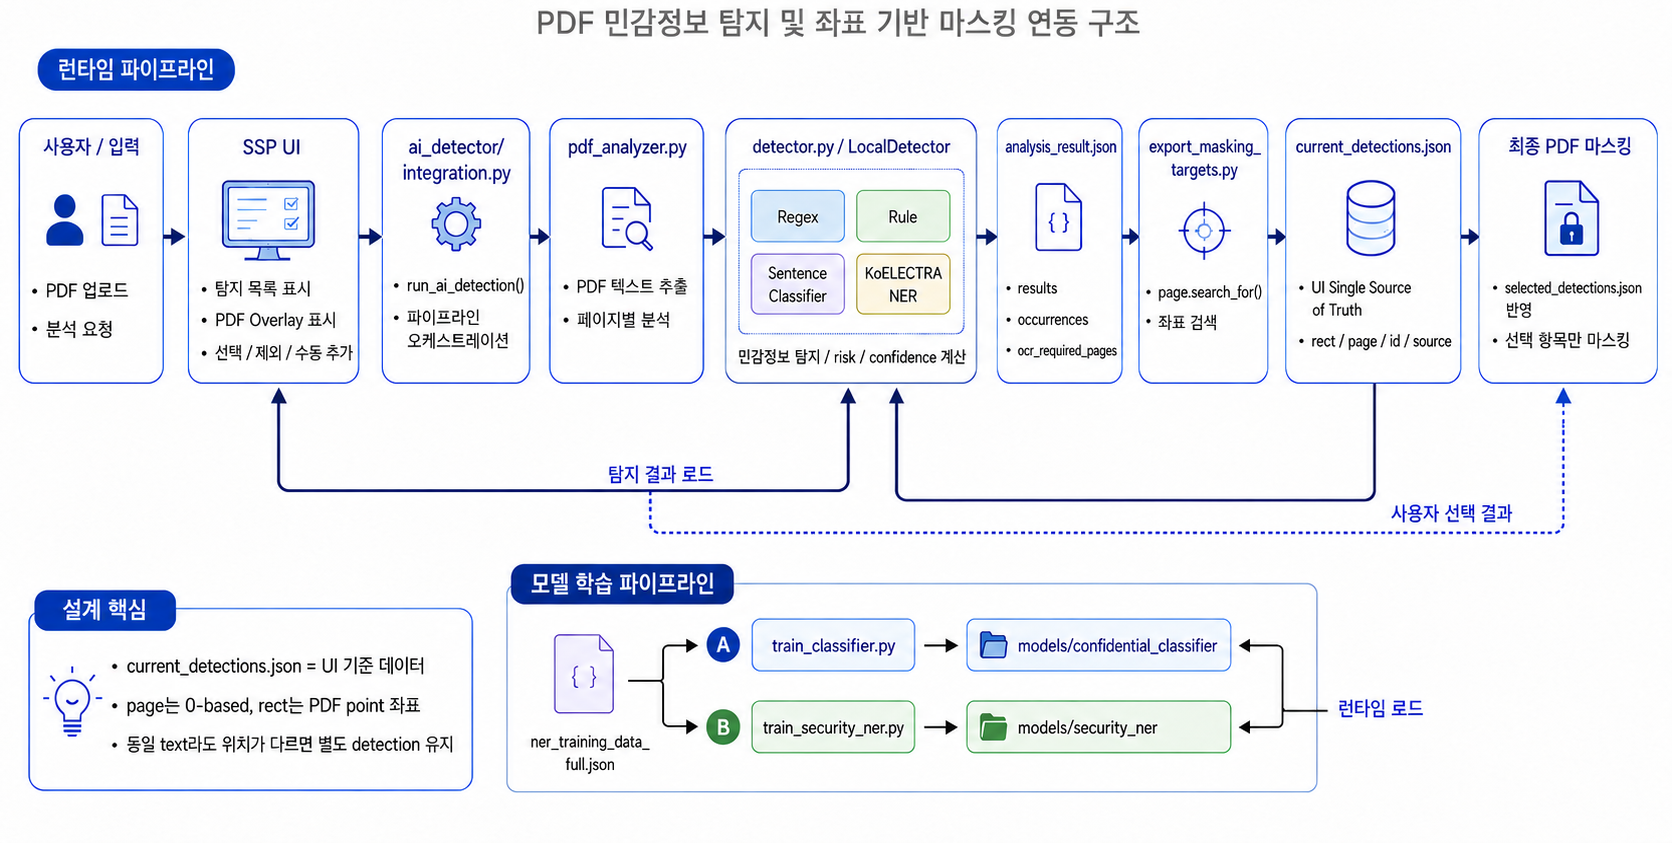
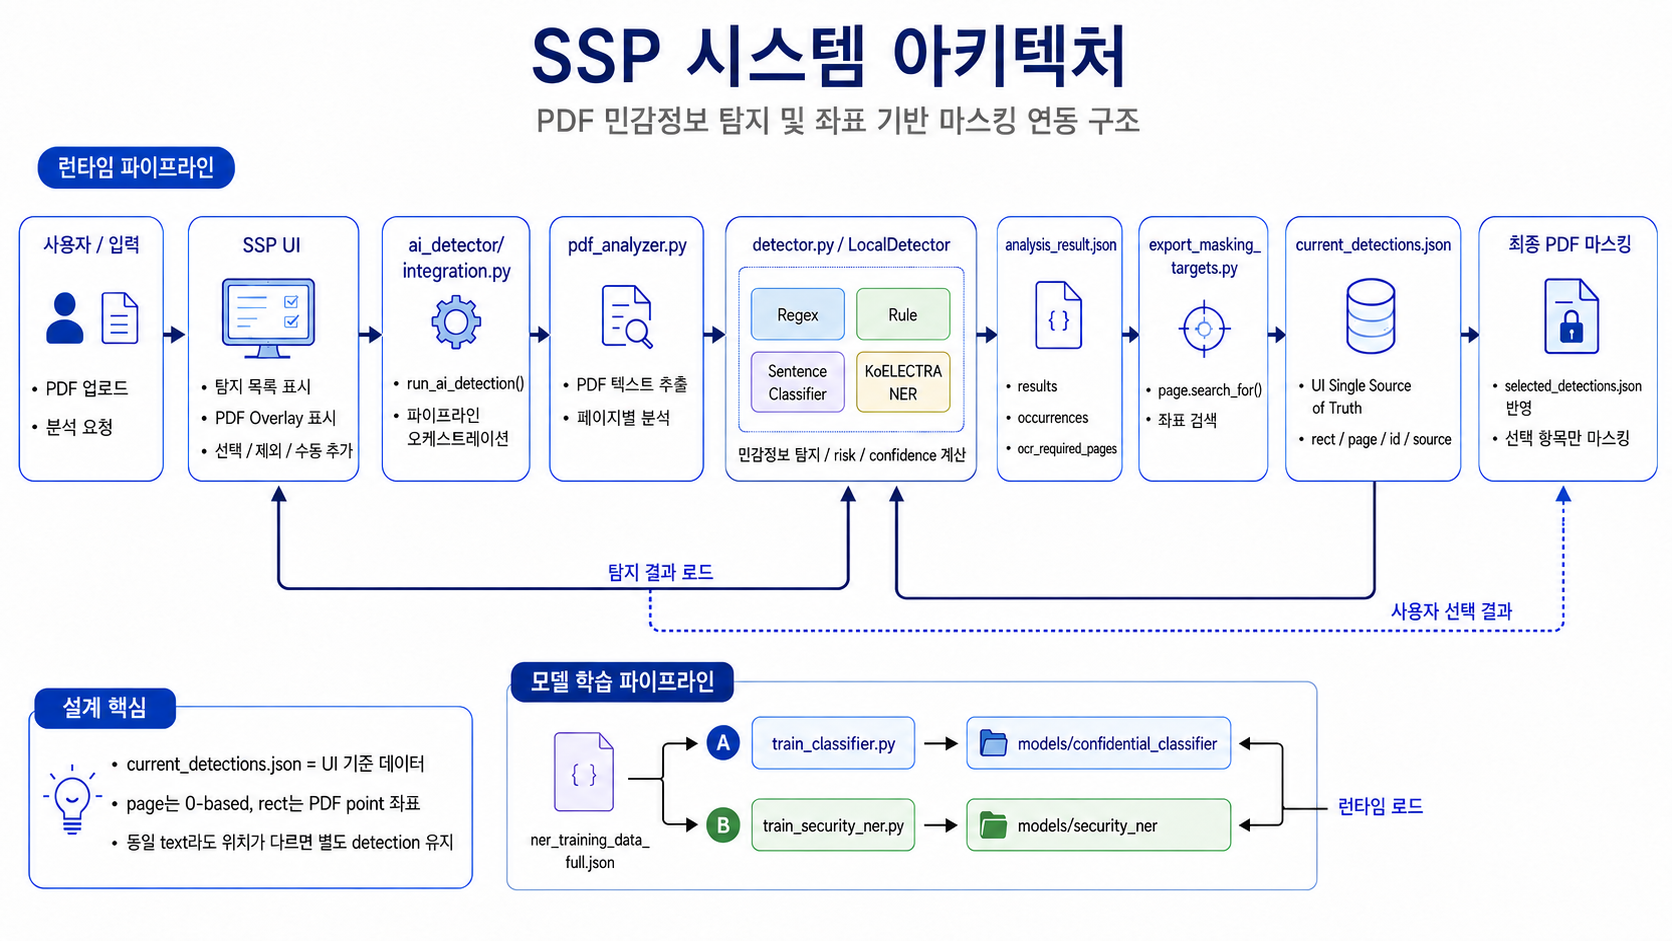
웹 전용 완성

diff --git a/style.css b/style.css
@@ -438,18 +438,30 @@ article img,
 }
 
 .architecture-view {
+  display: block;
+  width: min(1120px, 100%);
   max-width: 1120px;
   margin: 0 auto;
-  padding: clamp(12px, 2vw, 22px);
+  padding: 0;
   border-radius: 18px;
   background: #ffffff;
+  overflow: hidden;
   box-shadow: 0 22px 56px rgba(6, 31, 79, 0.18);
 }
 
+.section.architecture {
+  padding-top: clamp(56px, 7vw, 96px);
+  padding-bottom: clamp(56px, 7vw, 96px);
+}
+
 .architecture-view img {
+  display: block;
+  width: 100%;
   height: auto;
-  max-height: 540px;
-  border-radius: 8px;
+  max-height: none;
+  margin: 0;
+  object-fit: contain;
+  border-radius: 0;
 }
 
 article p,

diff --git a/index.html b/index.html
@@ -307,11 +307,6 @@
       </section>
 
       <section class="section dark architecture">
-        <div class="section-heading">
-          <p class="eyebrow">Architecture</p>
-          <h2>SSP 시스템 아키텍처</h2>
-          <p>PDF 민감정보 탐지부터 좌표 기반 마스킹까지 이어지는 전체 처리 흐름입니다.</p>
-        </div>
         <button class="image-zoom architecture-view" type="button" aria-label="SSP 시스템 아키텍처 크게 보기">
           <img src="assets/media/ssp-architecture.png" alt="SSP 시스템 아키텍처" />
         </button>